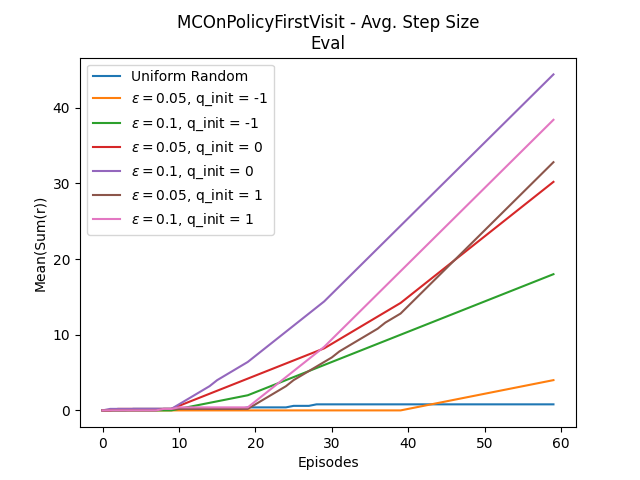
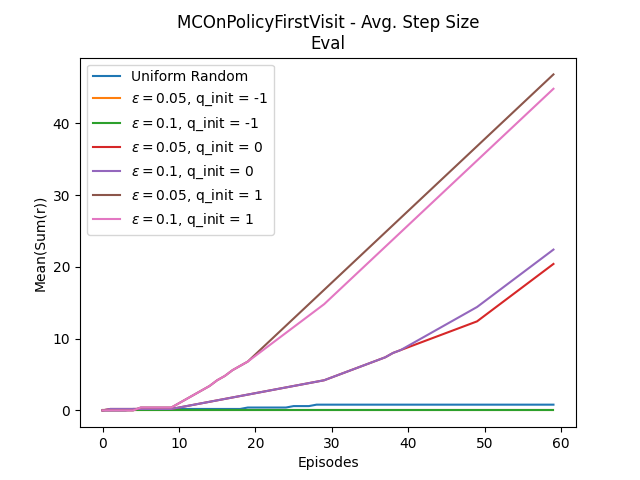
Simplify eps-greedy act() for tabular methods.

diff --git a/tabular_methods/planning/main.py b/tabular_methods/planning/main.py
@@ -729,7 +729,6 @@ if __name__ == '__main__':
     model_steps = 5
 
     results_over_agents = []
-    agent_names = []
 
     if 0:
         results = prioritized_sweeping_experiments(
@@ -741,43 +740,50 @@ if __name__ == '__main__':
             do_create_new_maze=False
         )
         results_over_agents.append(results)
-        agent_names.append('Prioritized Sweep')
+        process_experiment_results(
+            results_over_agents=results_over_agents,
+            agent_names=['Prioritized Sweep'],
+            do_value_plot=True
+        )
 
     if 1:
         # Select from: {qlearning | sarsa | expected_sarsa}
-        td_update_type = 'expected_sarsa'
+        for td_update_type in ['qlearning', 'sarsa', 'expected_sarsa']:
+            results = dynaq_experiments(
+                maxEpisodes=maxEpisodes,
+                max_steps_per_episode=max_steps_per_episode,
+                seeds=seeds,
+                model_steps=model_steps,
+                skip_visual_confirmation=True,
+                do_create_new_maze=False,
+                td_update_type=td_update_type
+            )
 
-        results = dynaq_experiments(
-            maxEpisodes=maxEpisodes,
-            max_steps_per_episode=max_steps_per_episode,
-            seeds=seeds,
-            model_steps=model_steps,
-            skip_visual_confirmation=True,
-            do_create_new_maze=False,
-            td_update_type=td_update_type
-        )
-        results_over_agents.append(results)
-        agent_names.append('DynaQ')
+            results_over_agents.append(results)
+            process_experiment_results(
+                results_over_agents=results_over_agents,
+                agent_names=['DynaQ'],
+                do_value_plot=True
+            )
 
-    if 0:
+    if 1:
         # Select from: {qlearning | sarsa | expected_sarsa}
-        td_update_type = 'qlearning'
-        results = dynaq_plus_experiments(
-            maxEpisodes=maxEpisodes,
-            max_steps_per_episode=max_steps_per_episode,
-            seeds=seeds,
-            model_steps=model_steps,
-            skip_visual_confirmation=True,
-            do_create_new_maze=False,
-            td_update_type=td_update_type
-        )
-        results_over_agents.append(results)
-        agent_names.append('DynaQPlus')
+        for td_update_type in ['qlearning', 'sarsa', 'expected_sarsa']:
+            results = dynaq_plus_experiments(
+                maxEpisodes=maxEpisodes,
+                max_steps_per_episode=max_steps_per_episode,
+                seeds=seeds,
+                model_steps=model_steps,
+                skip_visual_confirmation=True,
+                do_create_new_maze=False,
+                td_update_type=td_update_type
+            )
 
-    process_experiment_results(
-        results_over_agents=results_over_agents,
-        agent_names=agent_names,
-        do_value_plot=True
-    )
+            results_over_agents.append(results)
+            process_experiment_results(
+                results_over_agents=results_over_agents,
+                agent_names=['DynaQPlus'],
+                do_value_plot=True
+            )
 
     exit(0)

diff --git a/tabular_methods/utils.py b/tabular_methods/utils.py
@@ -98,45 +98,19 @@ class QEpsGreedyAgent(DiscreteActionAgent, SoftPolicy):
         else:
             eps = self.eps
 
-        # We need to know which one is the greedy action and/or it's prob
-        a_greedy, pcond_greedy = self.get_greedy_action(s)
-
-        # We have get multiple greedy actions, arbitrarily tie-broken
-        num_greedy_actions = 1./pcond_greedy
-
-        p_greedy = (
-                ((1. - eps) / num_greedy_actions) +
-                eps / self.action_space_dims
-        )
-
-        greedy = np.random.choice([True, False], p=[1. - eps, eps])
-
-        if greedy:
-            return a_greedy, p_greedy
+        # Decide whether to be greedy or explore
+        if np.random.random() > eps:
+            # Get the greedy action and its conditional
+            # probability (for tie-breaking)
+            action, conditional_prob = self.get_greedy_action(s)
         else:
-            a = int(np.random.choice(self.action_space_dims))
-            # The greedy action can still be picked
-            if a == a_greedy:
-                return a, p_greedy
-            else:
-                if pcond_greedy > (1. - 0.0001):
-                    # We're guaranteed that the greedy action was not tie-broken
-                    # so the non-greedy has eps/num_actions probability
-                    return a, eps / self.action_space_dims
+            # Choose any action uniformly at random
+            action = int(np.random.choice(self.action_space_dims))
 
-                # The non-greedy action here, may have been one of the
-                # randomly tie-broken greedy actions. This means that the
-                # probability of this action may not exactly
-                # eps / action_space_dims, but rather p_greedy
+        # Look up the true probability of the chosen action using the correct method
+        prob = self.get_sa_probability(s, action)
 
-                av = self.Q[s]
-                max_vals = np.amax(av)
-                idc = np.argwhere(av == max_vals).squeeze().tolist()
-                if a in idc:
-                    return a, p_greedy
-                else:
-                    # This was a non-greedy action after all
-                    return a, eps / self.action_space_dims
+        return action, prob
 
     def state_value(self, s):
         probs = [

diff --git a/tabular_methods/td/main.py b/tabular_methods/td/main.py
@@ -1215,9 +1215,9 @@ if __name__ == '__main__':
     seeds = (1, 2, 3 , 4, 5, 6, 7)
     alpha = 0.2
 
-    ENV_NAME = 'FrozenLake'
-    # env_name = 'CliffWalking'
-    # env_name = 'Taxi'
+    # ENV_NAME = 'FrozenLake'
+    # ENV_NAME = 'CliffWalking'
+    ENV_NAME = 'Taxi'
 
     if ENV_NAME == 'FrozenLake':
         q_init = 0.0
@@ -1243,7 +1243,7 @@ if __name__ == '__main__':
         return reward
 
     # ----------- Sarsa ------------ #
-    if 0:
+    if 1:
         sarsa_experiments(
             num_episodes=num_episodes,
             T=T,
@@ -1256,7 +1256,7 @@ if __name__ == '__main__':
         )
 
     # ------ Expected Sarsa ------- #
-    if 0:
+    if 1:
         expected_sarsa_experiments(
             num_episodes=num_episodes,
             T=T,
@@ -1269,7 +1269,7 @@ if __name__ == '__main__':
         )
 
     # --------- Q-Learning -------- #
-    if 0:
+    if 1:
         qlearning_experiments(
             num_episodes=num_episodes,
             T=T,
@@ -1281,7 +1281,7 @@ if __name__ == '__main__':
             train_seeds=seeds)
 
     # -------- nStep Sarsa -------- #
-    if 0:
+    if 1:
         nstep_sarsa_experiments(
             num_episodes=num_episodes,
             T=T,
@@ -1295,7 +1295,7 @@ if __name__ == '__main__':
         )
 
     # -------- Offpolicy nStepSarsa ------ #
-    if 1:
+    if 0:
         # Note: behavioral agent is random (U), so expect
         # the training returns to be bad.
         offpolicy_nstep_sarsa_experiments(
